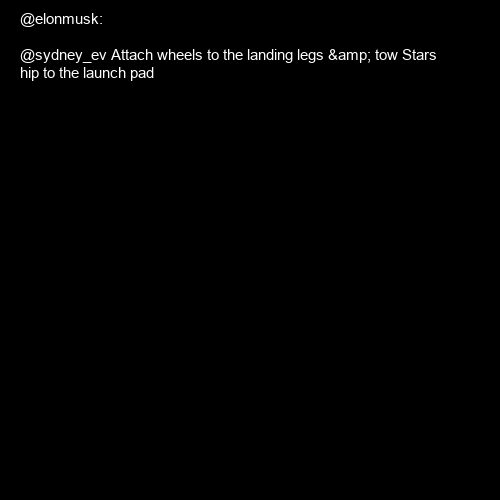
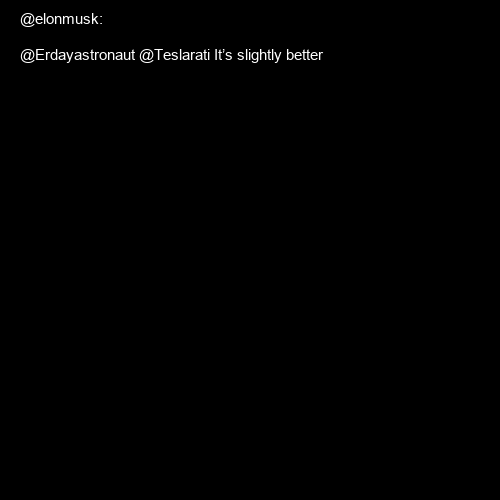
fixes

Changed region(s): [[0.03, 0.09, 0.87, 0.18]]

diff --git a/getTweets.py b/getTweets.py
@@ -6,25 +6,66 @@ import datetime
 import time
 import tweepy
 import config
+import queue
 import subprocess
+import threading
+import urllib
+import requests
+from io import BytesIO
 
 
+q = queue.Queue()
 
 auth = tweepy.OAuthHandler(config.consumerKey, config.consumerSecretKey)
 auth.set_access_token(config.accessToken, config.accessSecretToken)
 api = tweepy.API(auth)
 
+# twitter api
 def getTweetText(twitterHandle, numberOfTweets):
-    tweetList = list()
+    textOfTweets = list()
+    imgsOfTweets = list()
 
     # post is the entire element from api, tweet is the plain text tweet with links
     for post in tweepy.Cursor(api.user_timeline, screen_name=twitterHandle, tweet_mode="extended", include_entities=True).items(numberOfTweets):
-        if 'media' in post.entities:
-            print("IMAGEEEE")
-        print(post.full_text)
-        tweetList.append(post.full_text)
-    #print("\n\n\n\n\n\n\n")
-    return tweetList
+        if( hasattr(post,'extended_entities')):
+            for element in post.extended_entities['media']:
+                if(element['type'] == 'photo'):
+                    imgsOfTweets.append(element['media_url_https'])
+        else:
+            imgsOfTweets.append('0')
+        #print(post.full_text)
+        textOfTweets.append(post.full_text)
+    return [textOfTweets, imgsOfTweets]
+
+# queue
+def callback(foo):
+    print("A thread for " + str(foo) + " has finished")
+
+
+def get_feed(twitterFeed, callback): # for each twitter handle, we must add the task of getting their tweets to the queue
+    while True:
+        twitterFeedList = q.get()
+        print(" feed: ", twitterFeedList)
+        createImagesOfTweets(twitterFeedList)
+        time.sleep(0.5)
+        q.task_done()
+        callback(twitterFeedList)
+
+
+def queue_module(twitterHandle, textOfTweets, imagesOfTweets):
+    print("q module")
+    twitterFeedList = twitterHandle, textOfTweets, imagesOfTweets
+    print(twitterFeedList)
+    q.put(twitterFeedList)
+    worker = threading.Thread(target=get_feed, args=(1, callback))
+    worker.setDaemon(True)
+    worker.start()
+
+
+def addFeedToQueue(twitterHandle, textOfTweets):
+    print("adding feed to q")
+    imagesOfTweets =  ['images', 'hello']
+    queue_module(twitterHandle, textOfTweets, imagesOfTweets)
 
 
 def insertNewLines(tweet):
@@ -33,19 +74,18 @@ def insertNewLines(tweet):
     revisedTweet = ""
     
     for i in range(60, len(tweet), 60):
-        #print("I: ",i)
         revisedTweet = revisedTweet + tweet[i-60:i] + '\n' 
         if len(tweet)-i < 60:
             revisedTweet = revisedTweet + tweet[i:len(tweet)]
 
-    #print("REVISED: "+ revisedTweet)
+    print("REVISED: "+ revisedTweet)
     return revisedTweet
 
-
-def createImagesOfTweets(twitterHandle, tweetList):
+def createImagesOfTweets(twitterHandle, textOfTweets, imgsOfTweets):
     counter = 0
+    indexArray = 0
     font = ImageFont.truetype("arial.ttf", 15)
-    for tweet in tweetList:
+    for tweet in textOfTweets:
         revisedTweet = insertNewLines(tweet)
         
         img = Image.new('RGB', (500, 500), color = (0, 0, 0))
@@ -54,15 +94,28 @@ def createImagesOfTweets(twitterHandle, tweetList):
 
         img.save('/Users/elizabeth./Documents/code/ec500/video-emslade23/photos/frame'+str(counter)+'.png')
         counter += 1
+        if imgsOfTweets[indexArray] != '0':
+            #print('yoooo')
+            response = requests.get(imgsOfTweets[indexArray])
+            img = Image.open(BytesIO(response.content))
+            img.save('/Users/elizabeth./Documents/code/ec500/video-emslade23/photos/frame'+str(counter)+'.png')
+            counter += 1
+        indexArray += 1
 
 def convertImagestoVideo():
-    subprocess.run('ffmpeg -r .3 -f image2 -s 1920x1080 -i frame%d.png -vcodec libx264 -crf 25  -pix_fmt yuv420p test2.mp4', cwd="/Users/elizabeth./Documents/code/ec500/video-emslade23/photos")
+    #print(subprocess.run('ls').stdout)
+    result = subprocess.run('ffmpeg -r .3 -f image2 -s 1920x1080 -i frame%d.png -vcodec libx264 -crf 25  -pix_fmt yuv420p test2.mp4', cwd="/Users/elizabeth./Documents/code/ec500/video-emslade23/photos")
+    return result.stdout
+
+
 
 def main():
     twitterHandle = '@elonmusk'
-    results = getTweetText(twitterHandle, 4)
-    time.sleep(2)
-    createImagesOfTweets(twitterHandle, results)
-    #convertImagestoVideo()
+    textOfTweets, imgsOfTweets = getTweetText(twitterHandle, 7) # eventually returns 2 things tweet text and image tweets
+    print(textOfTweets)
+    print(imgsOfTweets)
+    createImagesOfTweets(twitterHandle, textOfTweets, imgsOfTweets)
+
+    stdout = convertImagestoVideo()
 
 main()

diff --git a/test_app.py b/test_app.py
@@ -3,7 +3,3 @@
 from getTweets import getTweetText
 from getTweets import insertNewLines
 from getTweets import createImagesOfTweets
-
-
-def testTweetText():
-    assert getTweetText('@elonmusk', 1) == ['@flcnhvy @sydney_ev Probably']
